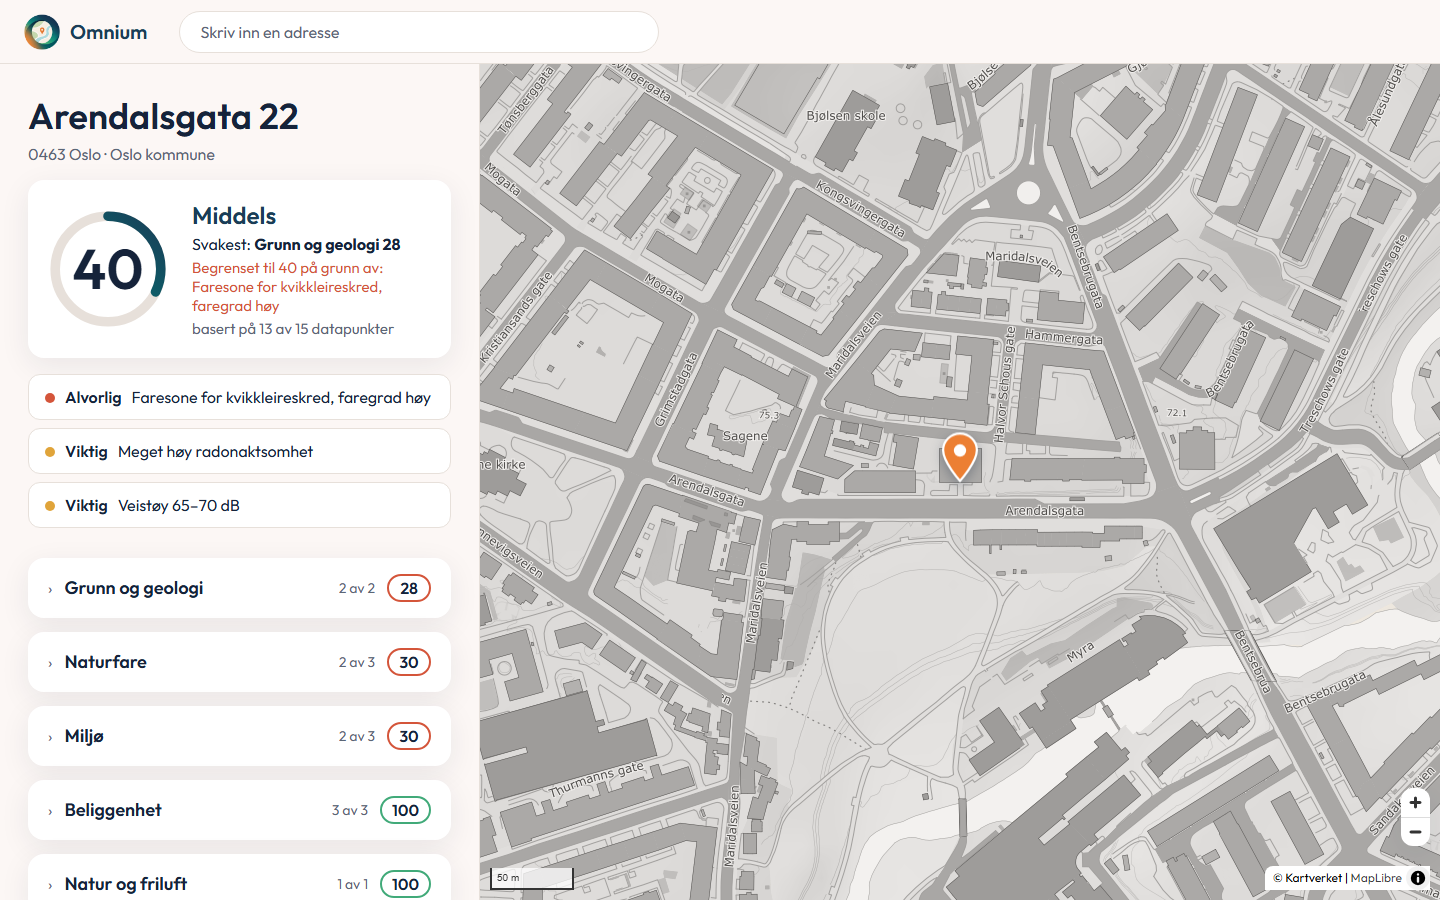
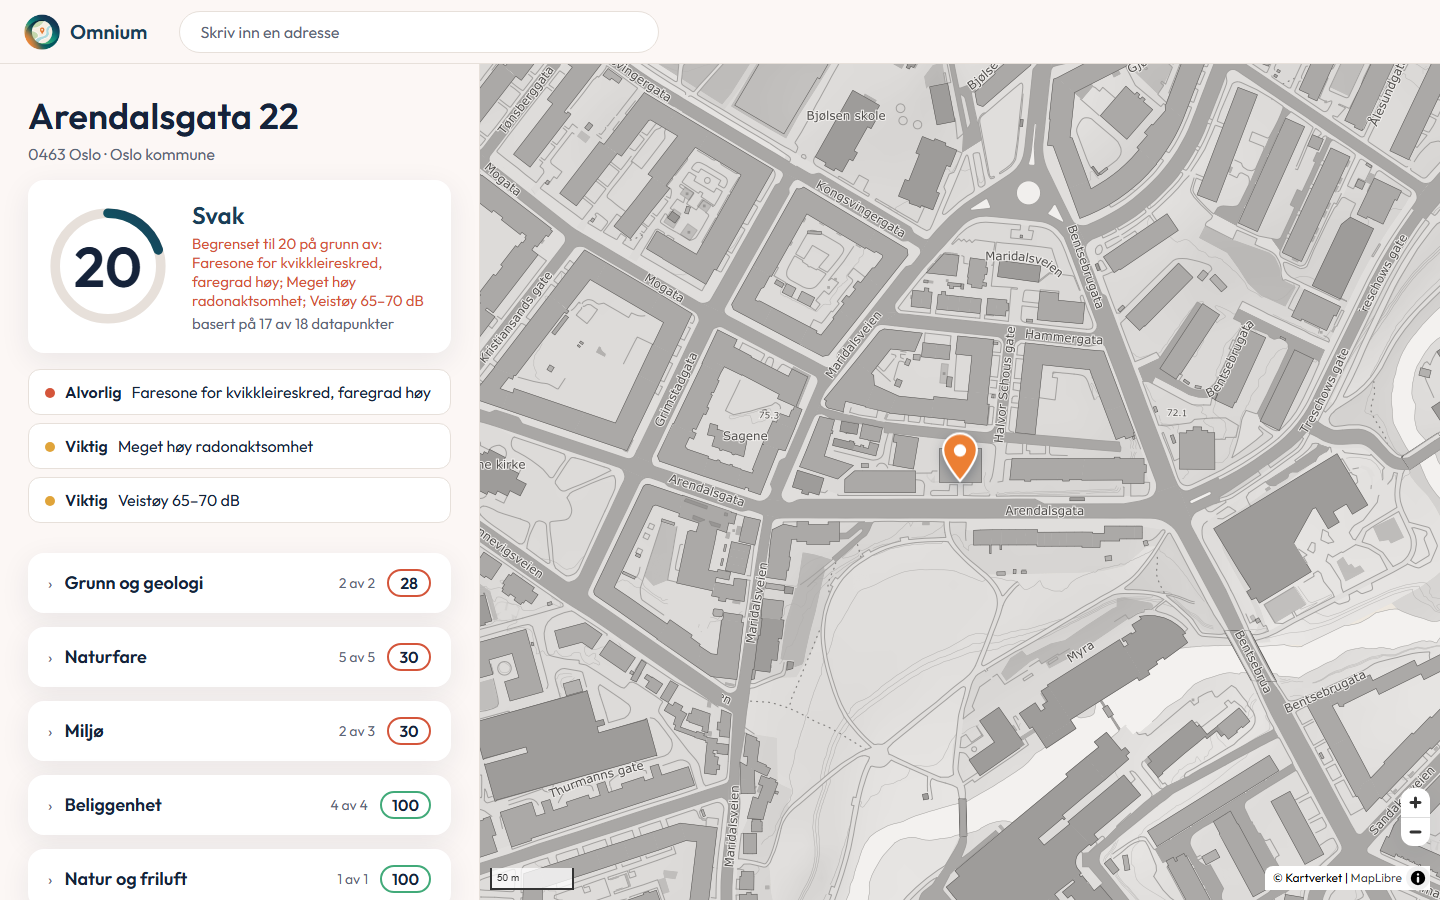
Docs for the new rating, departures and hazard data points
- DEMO.md: Grevlingåsen 75 vs Arendalsgata 20; bus caveat removed
  (Jegeråsen, 212 m, 161 weekday departures); readiness table updated
- FACTS.md: rules for quickClay "ingen", debrisFlow, avalanche and
  transitDepartures; #4 check updated
- TEXTS.md: sections for transitDepartures, debrisFlow, avalanche, and
  quick clay zone without faregrad
- TEST_ADDRESSES.md: new scores, departures and slide/avalanche results
- Screenshots 2 and 4 retaken

diff --git a/docs/DEMO.md b/docs/DEMO.md
@@ -12,8 +12,8 @@ Two homes, both in Bærum/Oslo, both near a bus and a school. On paper they look
 
 | Role | Address | Id | What it shows |
 |---|---|---|---|
-| Start: the calm case | Grevlingåsen 17, 1362 Hosle | `3201-1574-17` | Overall **60**. Naturfare 100: no quick clay, flood or noise zone. One warning: høy radonaktsomhet (common around Oslo). Bus 82 m, school 256 m, kindergarten 226 m. |
-| Contrast: the hidden risk | Arendalsgata 22, 0463 Oslo | `0301-10223-22` | Warnings: quick-clay zone, faregrad **høy** (NVE), and road noise 65–70 dB (strategic noise map), meget høy radonaktsomhet, marine clay and a polluted-ground site 17 m away. Overall **40**. Naturfare 30. Bus 31 m. |
+| Start: the calm case | Grevlingåsen 17, 1362 Hosle | `3201-1574-17` | Overall **75**. Naturfare 100: no quick clay, flood, rockfall, debris-slide or avalanche zone, no noise zone. One warning: høy radonaktsomhet (common around Oslo). Busiest stop within 500 m: Jegeråsen, 212 m, 161 departures a weekday. School 256 m, kindergarten 226 m. |
+| Contrast: the hidden risk | Arendalsgata 22, 0463 Oslo | `0301-10223-22` | Overall **20**, held down by three serious warnings: quick-clay zone with faregrad **høy** (NVE), meget høy radonaktsomhet and road noise 65–70 dB. Also marine clay and a polluted-ground site 17 m away. Naturfare 30. Busiest stop within 500 m: Sagene, 1154 departures. |
 | Backup / extra | Nedre Rælingsveg 148, 2005 Rælingen | `3224-8900-148` | Two warnings: 200-year flood zone and red road noise zone. |
 
 Numbers above are from the profile on 2026-11-07. Check them again before the demo (see checklist): they change when data or the rating changes.
@@ -32,8 +32,7 @@ Times are a guide. Bold = what you click or show.
 
 **0:45–1:30 — Det rolige eksempelet: Grevlingåsen 17**
 **Type "Grevlingåsen 17", pick the one in 1362 Hosle.** There is also a Grevlingåsen 17 in 1386 Asker: don't pick that one.
-> Her er et vanlig hus på Hosle i Bærum. Samlet karakter 60. Det ligger ikke i noen kartlagt faresone for kvikkleire, ikke i flomsone og ikke i støysone. Den eneste advarselen er høy aktsomhet for radon, som er vanlig rundt Oslo. Bussen er 82 meter unna, skolen 256 meter.
-Careful: the bus stop 82 m away has only 5 departures a day (`stops.departures`). Until the profile shows departures, don't call the bus connection good.
+> Her er et vanlig hus på Hosle i Bærum. Samlet karakter 75. Det ligger ikke i noen kartlagt faresone for kvikkleire, flom eller skred, og ikke i støysone. Den eneste advarselen er høy aktsomhet for radon, som er vanlig rundt Oslo. Nærmeste skole er 256 meter unna, og fra Jegeråsen, 200 meter unna, går det 161 avganger på en vanlig hverdag.
 **Point at the category cards, then open one data point to show its source and explanation.**
 > Alt vi viser har en kilde. Og vi forklarer hva det betyr for den som bor der.
 
@@ -41,8 +40,8 @@ Careful: the bus stop 82 m away has only 5 departures a day (`stops.departures`)
 **Go back, type "Arendalsgata 22", pick it.**
 > Så en leilighet på Sagene i Oslo. Like nær buss og skole. Men øverst ser du advarsler, den alvorligste først: eiendommen ligger i en faresone for kvikkleireskred med høy faregrad, fra NVE. I tillegg veistøy på 65–70 dB og forurenset grunn registrert i nærheten.
 **Point at the warnings and the low Naturfare score.** (Once Erik adds the quick-clay layer to the map, also point at the zone around the pin.)
-**Point at "Begrenset til 40 på grunn av: Faresone for kvikkleireskred" under the score.**
-> Samlet karakter faller fra 60 til 40, og naturfare fra 100 til 30. Og siden står hvorfor: kvikkleiren låser karakteren til maks 40. Den alvorligste risikoen står alltid først, og den kan ikke gjemmes i et snitt.
+**Point at the score and the warnings listed under it.**
+> Samlet karakter faller fra 75 til 20, og naturfare fra 100 til 30. Og siden sier hvorfor: kvikkleiren, radon og støy holder karakteren nede. Den alvorligste risikoen står alltid først, og den kan ikke gjemmes i et snitt.
 
 **2:15–2:40 — Ærlighet om data**
 **Point at a data point shown as "Ikke tilgjengelig".**
@@ -64,9 +63,9 @@ What the pitch needs, and who it depends on. Update this as things land.
 | Address page: warnings, category cards, data points with source | Works | Erik |
 | "Ikke tilgjengelig" for missing data | Works (e.g. Steinsprang under Naturfare) | Erik |
 | Quick-clay zone visible on the map | Not yet: data at `/api/nve_kvikkleire`, no map layer | Erik |
-| Overall rating (a number) | Works: Grevlingåsen 60, Arendalsgata 40. Note: any medium warning caps the overall at 60, and high radon is common, so most addresses get exactly 60 | Lukas |
-| Explanations under each data point | Not shown yet: texts in `docs/TEXTS.md`, not in the profile | Lukas |
-| AI summary | Not on the page yet. Endpoint uses `docs/FACTS.md`; needs `ANTHROPIC_API_KEY` | Lukas, Erik |
+| Overall rating (a number) | Works: Grevlingåsen 75, Arendalsgata 20 (caps stack: high 40, medium 75, minus 10 per extra serious warning) | Lukas |
+| Explanations under each data point | Main text from `docs/TEXTS.md` is in the profile. Per-outcome texts ("Når ...") not yet | Lukas |
+| AI summary | Endpoint works with the key in `.env` and follows `docs/FACTS.md`. Not on the page yet | Erik |
 | Map tiles | Take 3–5 seconds to appear the first time. Open both pages before presenting | — |
 
 For the 2:15 part, open Naturfare on Grevlingåsen: Steinsprang shows "Ikke tilgjengelig".

diff --git a/docs/FACTS.md b/docs/FACTS.md
@@ -69,7 +69,10 @@ Rules for every sentence:
 | warning, value "høy" | Eiendommen ligger i en faresone for kvikkleireskred med høy faregrad ({src}). | 1 |
 | warning, value "middels" | Eiendommen ligger i en faresone for kvikkleireskred med middels faregrad ({src}). | 2 |
 | warning, value "lav" | Eiendommen ligger i en faresone for kvikkleireskred med lav faregrad ({src}). | 3 |
-| no warning | Eiendommen ligger ikke i en kartlagt faresone for kvikkleireskred ({src}). | 5 |
+| value "ingen" (zone without faregrad) | Eiendommen ligger i en kartlagt kvikkleiresone der NVE ikke har satt noen faregrad ({src}). | 6 |
+| no zone | Eiendommen ligger ikke i en kartlagt faresone for kvikkleireskred ({src}). | 5 |
+
+"ingen" is neither a risk nor an all-clear: never write "faresone" or "trygt" for it, and don't add a faregrad.
 
 **`flood200` (Flomsone)**
 
@@ -85,6 +88,23 @@ Rules for every sentence:
 |---|---|---|
 | warning | Eiendommen ligger i et aktsomhetsområde for steinsprang ({src}). | 2 |
 | no warning | Eiendommen ligger ikke i et aktsomhetsområde for steinsprang ({src}). | 5 |
+
+**`debrisFlow` (Jord- og flomskred)**
+
+| When | Sentence | Rank |
+|---|---|---|
+| warning | Eiendommen ligger i et aktsomhetsområde for jord- og flomskred ({src}). | 2 |
+| no warning | Eiendommen ligger ikke i et aktsomhetsområde for jord- og flomskred ({src}). | 5 |
+
+**`avalanche` (Snøskred)**
+
+| When | Sentence | Rank |
+|---|---|---|
+| value "medSkog" (warning medium) | Eiendommen ligger i et aktsomhetsområde for snøskred ({src}). | 2 |
+| value "utenSkog" (warning low) | Eiendommen ligger i et område der snøskred bare kan nå fram hvis skogen over blir borte ({src}). | 3 |
+| no warning | Eiendommen ligger ikke i et aktsomhetsområde for snøskred ({src}). | 5 |
+
+Rockfall, debris-slide and avalanche maps are *aktsomhetsområder*: coarse maps of where a slide is possible, made from a terrain model. Always write "aktsomhetsområde", never "faresone", so the summary doesn't make them sound like the mapped quick-clay or flood zones.
 
 ### Environment
 
@@ -129,6 +149,19 @@ Example (Holmenkollveien 196): "Nærmeste holdeplass er Frognerseteren, 155 m un
 |---|---|---|
 | value is a number | Nærmeste holdeplass er {name}, {distance} unna i luftlinje ({src}). | 6 |
 | value is empty | Det er ingen holdeplass innen 2 km i luftlinje ({src}). | 4 |
+
+**`transitDepartures` (Avganger innen 500 m)**
+
+The busiest stop within 500 m in a straight line, counted on one normal weekday. `{display}` is "161 avganger, 2 linjer (Jegeråsen, 212 m)": `{lines}` is the number before "linje"/"linjer", `{name}` and `{distance}` are in the brackets.
+
+| When | Sentence | Rank |
+|---|---|---|
+| value > 0, 1 line | Fra {name}, {distance} unna i luftlinje, går det {value} avganger på en vanlig hverdag med 1 linje ({src}). | 6 if good, 4 if bad |
+| value > 0, more lines | Fra {name}, {distance} unna i luftlinje, går det {value} avganger på en vanlig hverdag fordelt på {lines} linjer ({src}). | 6 if good, 4 if bad |
+| value 0 | Det går ingen kollektivavganger fra holdeplasser innen 500 meter i luftlinje på en vanlig hverdag ({src}). | 4 |
+
+Example (Grevlingåsen 17): "Fra Jegeråsen, 212 m unna i luftlinje, går det 161 avganger på en vanlig hverdag fordelt på 2 linjer (Entur)."
+Say "på en vanlig hverdag", never "per dag" or "hver dag": weekends have fewer. If this stop is also the nearest stop (`transitStop`), one sentence may cover both.
 
 **`school` (Nærmeste grunnskole)**
 
@@ -199,5 +232,5 @@ From `docs/TEST_ADDRESSES.md`. After a change here or in `summary.ts`, the facts
 | 1 | Arendalsgata 22 | Kvikkleire, høy faregrad (rank 1). Veistøy 65–70 dB from the strategic map (rank 2) | Any T-1442 noise zone (no coverage in Oslo) |
 | 2 | Nedre Rælingsveg 148 | 200-årsflom (rank 2). Rød støysone (rank 2) | A second noise warning (strategic map does not warn outside Oslo) |
 | 3 | Gamle Drammensvei 207 | Rød støysone (rank 2) | Kvikkleire, flom |
-| 4 | Grevlingåsen 17 | "ikke i en kartlagt" for quick clay and flood, no noise zone (rank 5). Høy radonaktsomhet (rank 2) | Any other warning |
+| 4 | Grevlingåsen 17 | "ikke i en kartlagt" for quick clay and flood, no noise zone, no rockfall/debris/avalanche area (rank 5). Høy radonaktsomhet (rank 2). Jegeråsen, 161 avganger | Any other warning |
 | 5 | Holmenkollveien 196 | Høy radonaktsomhet (rank 2). Frognerseteren as nearest stop | Kvikkleire, flom, støy |

diff --git a/docs/TEXTS.md b/docs/TEXTS.md
@@ -30,6 +30,7 @@ How to use this file:
 ### `quickClay` — Kvikkleire faresone
 **Forklaring:** Kvikkleire er leire som kan bli flytende når den blir forstyrret, og da kan store områder gli ut. NVE har kartlagt soner der et slikt skred kan skje.
 - **Når i faresone:** Faregraden (lav, middels eller høy) sier hvor sannsynlig et skred er, ikke hvor stor skaden blir. Kommunen kan stille krav til grunnundersøkelser før det bygges eller graves.
+- **Når i kartlagt sone uten faregrad:** NVE har kartlagt kvikkleire her, men ikke vurdert hvor sannsynlig et skred er. Kommunen kan likevel kreve grunnundersøkelser før det bygges eller graves.
 - **Når ikke i kartlagt faresone:** NVE har ikke registrert noen faresone her. Det kan likevel finnes kvikkleire i områder som ikke er kartlagt.
 
 ### `flood200` — Flomsone (200-årsflom)
@@ -40,6 +41,15 @@ How to use this file:
 ### `rockfall` — Steinsprang
 **Forklaring:** Steinsprang er når stein løsner fra bratte fjellsider og faller eller ruller ned. Aktsomhetsområder viser hvor stein i verste fall kan nå, beregnet ut fra terrenget.
 - **Når i aktsomhetsområde:** Kartet er grovt og ikke sjekket på stedet, så den virkelige faren kan være mindre. Det gir ikke svar for én enkelt tomt.
+
+### `debrisFlow` — Jord- og flomskred
+**Forklaring:** Jordskred og flomskred er når løsmasser i bratte skråninger eller bekkeløp raser ut, ofte etter mye regn eller snøsmelting. Aktsomhetsområder viser hvor slike skred er mulige, beregnet ut fra terrenget.
+- **Når i aktsomhetsområde:** Kartet er grovt og ikke sjekket på stedet, så den virkelige faren kan være mindre. Det gir ikke svar for én enkelt tomt.
+
+### `avalanche` — Snøskred
+**Forklaring:** Aktsomhetsområder for snøskred viser hvor snøskred kan løsne og hvor langt de kan nå, beregnet ut fra terrenget. Kartet er grovt og ikke sjekket på stedet.
+- **Når i aktsomhetsområde:** Snøskred kan i verste fall nå hit, også med skogen som står i dag.
+- **Når bare uten skog:** Skogen over beskytter i dag. Hvis skogen hogges eller dør, kan snøskred nå hit.
 
 ## Miljø
 
@@ -65,6 +75,11 @@ How to use this file:
 ### `transitStop` — Nærmeste holdeplass
 **Forklaring:** Avstanden er målt i luftlinje til nærmeste stopp for buss, trikk, T-bane, tog eller båt. Gangveien kan være lengre.
 - Tallet sier ikke hvor ofte det går avganger fra stoppet.
+
+### `transitDepartures` — Avganger innen 500 m
+**Forklaring:** Antall avganger på en vanlig hverdag fra den travleste holdeplassen innen 500 meter i luftlinje, med alle linjer som stopper der. Det sier mer om hvor lett det er å reise kollektivt enn avstanden til nærmeste stopp.
+- **Når ingen avganger:** Det finnes ingen holdeplass med faste avganger innen 500 meter. Det kan gå bestillingstransport eller skolebuss som ikke er med i tallet.
+- Helger og ferier har ofte færre avganger.
 
 ### `school` — Nærmeste grunnskole
 **Forklaring:** Avstanden er målt i luftlinje til nærmeste barne- eller ungdomsskole. Det er ikke sikkert dette er skolen adressen hører til, for kommunen bestemmer skolekretsen, og skolen kan være privat.

diff --git a/docs/TEST_ADDRESSES.md b/docs/TEST_ADDRESSES.md
@@ -34,9 +34,10 @@ The id is the address id from `docs/PROFILE.md` (`<kommunenummer>-<adressekode>-
 - Ski tracks at #5: Turrutebasen (`turruter`) has a trail 45 m away but the nearest ski track 1.2 km away (TRY-løypa). Turrutebasen lacks most Nordmarka ski tracks, so this does not show the ski area well.
 - Polluted ground (`grunnforurensning`) on 2026-11-07: #1 has a registered site 17 m away ("Arendalsgata 3-22", påvirkningsgrad 2: acceptable with today's use). The others have none within 100 m.
 - Radon and soil type (from Sverre's `radon` and `losmasser`) on 2026-11-07: #1 meget høy radon, marine clay (hav- og fjordavsetning). #2 middels radon, fluvial deposit. #3 meget høy radon. #4 høy radon, fill (fyllmasse). #5 høy radon, bare rock. Not checked against NGU's own map.
-- Overall rating on 2026-11-07: #1 40, #2–#5 60 (medium warnings cap the overall at 60).
+- Overall rating on 2026-11-07 (after Lukas's stacked caps): #1 20, #2 65, #3 65, #4 75, #5 75.
+- Busiest stop within 500 m (`transitDepartures`): #1 Sagene 1154, #2 Lillestrøm stasjon 363, #3 Sandvika stasjon 444, #4 Jegeråsen 161 (212 m), #5 Frognerseteren 76.
+- Rockfall, debris slide and avalanche (Sverre's `steinsprang`, `jordflomskred`, `snoskred`): none of the 5 addresses is in an area.
 - Departures at the nearest stop (Tue 2026-11-10, `stops.departures`): #1 Arendalsgata 929 (3 lines), #2 Dammensvika 152, #3 Lakseberget 230, #4 Grevlingbakken **5** (1 line), #5 Frognerseteren 76 (metro + bus).
-- Rockfall and avalanche were not checked for any address.
 - Strategic noise map (`stoy_strategisk`, 2021) on 2026-11-07: #2 65–70 dB, #3 70–75 dB, #4 no zone (unknown), backup Kjelsåsveien 162 55–60 dB.
 - The road noise map (`Stoyvarselkart`) only covers national and county roads and has no data inside central Oslo. That is why the noisy-road case is in Bærum.
 
